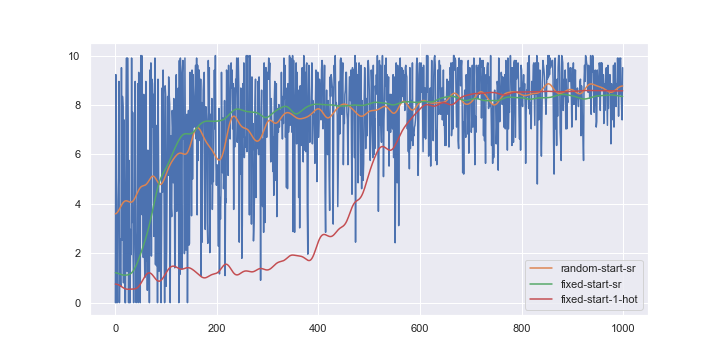
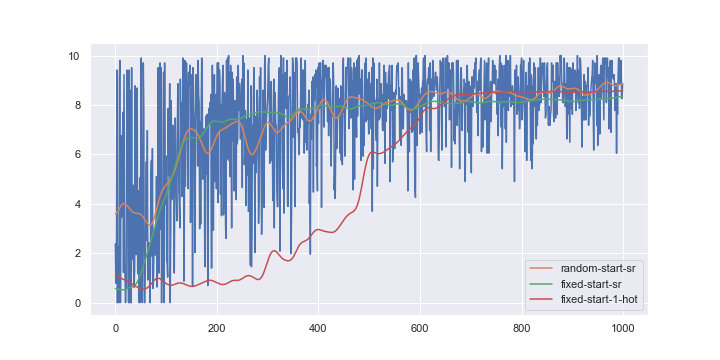
wip.

Changed region(s): [[0.1528, 0.1528, 0.8861, 0.8556]]

diff --git a/hw-5/sr-ac/sr_ac_template.py b/hw-5/sr-ac/sr_ac_template.py
@@ -160,7 +160,7 @@ def reachable_moves(maze, pos):
 
 @numba.jit
 def init_propensities(maze, epsilon = 1e-5):
-    M =  np.ones((maze.size, 4))* (-np.inf)
+    M =  np.ones((maze.size, 4))* (-1e10)
     
     for i in range(maze.shape[0]):
         for j in range(maze.shape[1]):
@@ -169,7 +169,21 @@ def init_propensities(maze, epsilon = 1e-5):
             for _, action in reachable_moves: 
                 M[position_idx(i, j, maze), action] = epsilon
     return M
-
+#%%
+def plot_propensities(M, maze):
+    # Plot the propensities for each state
+    plt.figure(figsize=(10, 5))
+    plt.title('Action Propensities')
+    
+    for move_name in legal_move_names():
+        plt.figure(figsize=(10, 5))
+        plt.title(f'Action Propensities for {move_name}')
+        plot_maze(maze)
+        plt.imshow(M[:, legal_move_names().index(move_name)].reshape(maze.shape), cmap='hot')
+        plt.colorbar()
+        plt.show() 
+        
+#%%
 """
 Learning to act
 
@@ -220,7 +234,11 @@ def actor_critic(state_representation, n_steps,
     #               start_func allows you to specify a different starting 
     #               state, if desired
     # Initialize M-table
-    perf_counters = {"num_episodes": 0, "num_steps": 0, "num_goal_reached": 0}
+    perf_counters = {
+                     "num_episodes": 0, 
+                     "num_steps": 0, 
+                     "num_goal_reached": 0
+    }
     M = init_propensities(maze)
     # Initialize state-value function
     num_states = state_representation.shape[0]
@@ -242,6 +260,8 @@ def actor_critic(state_representation, n_steps,
         
         perf_counters["num_episodes"] += 1
         state_idx = start_func()
+        
+        
         # cumulative discount factor
         I = 1
         # episode trajectory
@@ -251,21 +271,54 @@ def actor_critic(state_representation, n_steps,
         for step_idx in range(n_steps):
             perf_counters["num_steps"] += 1
             # Act and Learn (Update both M and V_weights)
-           
+            
+          
             is_legal_move = False
             move= None
             new_state = None
+            max_checks = 1000 
+            checks = 0
+            action_probabilities = None
+            valid_probabilities = None
+            valid_actions = None
+            chosen_action = None
             
-            while not is_legal_move:
-                # Compute action probabilities
+            while not is_legal_move and checks < max_checks:
+                checks += 1
+                # Compute Action probabilities - How to only consider valid actions
+                valid_actions = [action for action, move in enumerate(LEGAL_MOVES) 
+                                 if check_legal(maze, tuple(np.array(position_from_idx(state_idx, maze)) + np.array(move)))]
+
+                # action_probabilities = softmax(M[state_idx, valid_actions]) 
+                # for i,_ in enumerate(LEGAL_MOVES):
+                #    if i not in set(valid_actions):
+                #        action_probabilities = np.insert(action_probabilities, i, 0) 
+                # print("action_probabilities", action_probabilities, "shape", action_probabilities.shape, "valid_actions", valid_actions)
+                # chosen_action = np.random.choice(valid_actions, p=valid_probabilities)
+                
                 action_probabilities = softmax(M[state_idx, :])
-                valid_actions = np.where(M[state_idx, :] > -np.inf)[0]
+                #valid_actions = np.where(M[state_idx, :] > -np.inf)[0]
                 valid_probabilities = action_probabilities[valid_actions]
-                valid_probabilities /= valid_probabilities.sum()  # Normalize probabilities
-                if(np.isnan(valid_probabilities).any()) and len(valid_probabilities) > 0:
-                   chosen_action = np.random.choice(4)  
+                if valid_probabilities.sum() == 0:
+                        print(f"Warning: Sum of probabilities is zero for state {state_idx} - {position_from_idx(state_idx, maze)}")
+                        valid_probabilities = np.ones_like(valid_probabilities) / len(valid_probabilities)
                 else:
-                    chosen_action = np.random.choice(valid_actions, p=valid_probabilities)
+                        valid_probabilities /= valid_probabilities.sum()
+               
+                if(np.isnan(valid_probabilities).any()) and len(valid_probabilities) > 0:
+                   chosen_action = np.random.choice(4)
+                else:
+                    try:
+                        chosen_action = np.random.choice(valid_actions, p=valid_probabilities)
+                    except ValueError:
+                        print("valid_actions:", valid_actions)
+                        print("valid_probabilities:", valid_probabilities)
+                        print("action_probabilities:", action_probabilities)
+                        print("M[state_idx, :]:", M[state_idx, :])
+                        print("state representation:", state_representation[state_idx])
+                        print("v_weights:", V_weights)
+                        plt.imshow(state_representation, cmap='hot')
+                        raise ValueError("ValueError")
                 # Choose action according to action probabilities
                 #action_probabilities = np.nan_to_num(action_probabilities, nan=-np.inf, copy=False)
                 #chosen_action = np.random.choice(4, p=action_probabilities)
@@ -279,7 +332,19 @@ def actor_critic(state_representation, n_steps,
                     per_episode_counters["rejections"] = per_episode_counters.get("rejections", 0) + 1
                 else:
                     per_episode_counters["actions"] = per_episode_counters.get("actions", 0) + 1
-        
+                    
+            # Should have found legal move
+            if not is_legal_move and checks == max_checks: 
+                print("valid_actions:", valid_actions)
+                print("valid_probabilities:", valid_probabilities)
+                print("action_probabilities:", action_probabilities)
+                print("M[state_idx, :]:", M[state_idx, :])
+                print("state representation:", state_representation[state_idx])
+                print("v_weights:", V_weights)
+                plt.imshow(state_representation, cmap='hot') 
+                print(f"Propensites for state: {position_from_idx(state_idx, maze)} are {M[state_idx, :]}")
+                raise ValueError(f"Could not find a legal move after {max_checks} checks, No legal move for state: {position_from_idx(state_idx, maze)}")
+            
             per_episode_counters["state_visit_counts"][state_idx] += 1 
             trajectory.append(new_state_idx)
             V_state = V_weights @ state_representation[state_idx]
@@ -303,18 +368,6 @@ def actor_critic(state_representation, n_steps,
             # Absorbing state  
             if (i, j) == goal: 
                 episode_rewards[episode_idx] = I * reward # earned rewards for this episode
-                if update_sr: # Update the state representation
-                    #new_state_representation = np.copy(state_representation)
-                    trajectory = np.array(trajectory)
-                    for idx, state_idx in enumerate(trajectory):
-                        #assert check_legal(maze, position_from_idx(state_idx, maze)), \ f"Invalid state in trajectory: {position_from_idx(state_idx, maze)}"
-                        #print("state_idx", state_idx)
-                        current_trajectory = trajectory[idx:]
-                        state_representation[state_idx, :] = \
-                            learn_from_traj(state_representation[state_idx,:], 
-                                            current_trajectory, gamma, alpha)
-                    #state_representation[:] = new_state_representation
-                    
                 break # END EPISODE
             
             state_idx = new_state_idx 
@@ -322,18 +375,10 @@ def actor_critic(state_representation, n_steps,
         # Episode ended due to max steps 
         if step_idx == n_steps - 1 and not goal_reached: 
             episode_rewards[episode_idx] = 0
-            if update_sr: # Update the state representation
-                #new_state_representation = np.copy(state_representation)
-                trajectory = np.array(trajectory)
-                for idx, state_idx in enumerate(trajectory):
-                    #print("state_idx", state_idx)
-                    #assert check_legal(maze, position_from_idx(state_idx, maze)), \ f"Invalid state in trajectory: {position_from_idx(state_idx, maze)}"
-                    current_trajectory = trajectory[idx:]
-                    state_representation[state_idx, :] = \
-                        learn_from_traj(state_representation[state_idx,:], 
-                                        current_trajectory, gamma, alpha)
-                #state_representation[:] = new_state_representation
- 
+        if update_sr and len(trajectory) > 0: # Update the state representation
+            #print(f"Updating SR - Episode {episode_idx}- Trajectory: {[position_from_idx(idx, maze) for idx in trajectory]}") 
+            state_representation[:] = update_sr_after_episode(state_representation, trajectory, gamma, alpha)
+                 
     # Reward only for reaching the goal, thus episode reward is 
     # same as Discounted last step reward.
     perf_counters["episode_counters"] = episode_counters
@@ -341,26 +386,154 @@ def actor_critic(state_representation, n_steps,
     return M, V_weights, episode_rewards
 
 #%%
+def update_sr_after_episode(state_representation, trajectory, 
+                            gamma=0.98, alpha=0.05, debug=False):
+    old_state_representation = np.copy(state_representation)
+    trajectory = np.array(trajectory)
+    for idx, state_idx in enumerate(trajectory):
+        if debug: print(f"state_idx: {state_idx}") 
+        current_trajectory = trajectory[idx:]
+        if debug: print(f"current_trajectory: {current_trajectory}")
+        old_state_representation_state_idx = np.copy(state_representation[state_idx, :])
+        state_representation[state_idx, :] = \
+            learn_from_traj(state_representation[state_idx, :], 
+                            current_trajectory, gamma, alpha, debug=debug)
+        change = np.sum(np.abs(old_state_representation_state_idx - state_representation[state_idx, :]))
+        #if debug: print(f"STATE-CHANGE:{position_from_idx(state_idx, maze)}: {change}")
+       
+    if debug: 
+        # figure with row of three images
+        plt.figure(figsize=(15, 5))
+        ax = plt.subplot(1, 3, 1)
+        ax.set_title("Old State Representation")
+        plt.imshow(old_state_representation, cmap='hot')
+        plt.colorbar()
+        ax = plt.subplot(1, 3, 2)
+        ax.set_title("New State Representation")
+        plt.imshow(state_representation, cmap='hot')
+        plt.colorbar()
+        ax = plt.subplot(1, 3, 3)
+        ax.set_title(f"Change: Trajectory: {trajectory}")
+        plt.imshow(state_representation - old_state_representation, cmap='hot')
+        plt.colorbar()
+        plt.show()
+    if debug:
+        for i in range(state_representation.shape[0]):
+            for j in range(state_representation.shape[1]):
+                if np.abs(state_representation[i, j] - old_state_representation[i, j]) > 0:
+                    if debug: print(f"state: {i, j}, old: {old_state_representation[i, j]}, new: {state_representation[i, j]}")
+                    if debug: print(f"difference: {state_representation[i, j] - old_state_representation[i, j]}")
+                #if debug: print(f"Altered transition from {position_from_idx(i, maze)} to {position_from_idx(j, maze)}")
+                
+    #assert not np.allclose(old_state_representation, state_representation)
+    total_change = np.sum(np.abs(old_state_representation - state_representation))
+    if debug: print(f"total-change: {total_change}")
+    return state_representation
+    
+#%%
 # One part to the solution of exercise part 3, if you want to update the 
 # SR after each episode
-def learn_from_traj(succ_repr, trajectory, gamma=0.98, alpha=0.05):
+def learn_from_traj(succ_repr, trajectory, gamma=0.98, alpha=0.05, debug=False):
     # Write a function to update a given successor representation 
     # (for the state at which the trajectory starts) using an 
     # example trajectory using:
     #       discount factor gamma 
     #       learning rate alpha
     observed = np.zeros_like(succ_repr)
+    #if debug: print(f"learn_from_traj: {trajectory}") 
     for i, state in enumerate(trajectory):
+        #if debug: print(f"learn_from_traj: state: {state}")
         observed[state] += gamma ** i
+    assert (observed >= 0).all(), "observed should be positive"
+    #assert (succ_repr >= 0).all(), "succ_repr should be positive"
     delta =  observed - succ_repr
-    #print(f"successor: {succ_repr}, observed: {observed}, delta:{delta}")
-    if np.sum(np.abs(delta)) >0 : 
-        print("non-zero-delta: ", np.sum(np.abs(delta)))
+    #if debug: print(f"delta: {delta}")
+    #if debug: print(f"successor: {succ_repr}, observed: {observed}, total-delta:{np.sum(np.square(delta))}")
+    # if np.sum(np.abs(delta)) >0 : print("non-zero-delta: ", np.sum(np.abs(delta)))
     succ_repr += alpha * delta 
+    # assert (succ_repr >= 0).all(), "succ_repr should remain positive"
     # Return the updated successor representation
     return succ_repr
 
+#%%
+import numpy as np
 
+def test_learn_from_traj_basic():
+    # Basic test with a simple trajectory
+    succ_repr = np.zeros(6)
+    trajectory = [0, 1, 2, 3]
+    gamma = 0.9
+    alpha = 0.1
+    updated_repr = learn_from_traj(np.copy(succ_repr), trajectory, gamma, alpha)
+    print("updated_repr", updated_repr) 
+    # Compute expected values manually
+    expected = np.zeros(6)
+    for i, state in enumerate(trajectory):
+        expected[state] += gamma ** i
+    expected = succ_repr + alpha * (expected - succ_repr)
+    print("expected", expected)    
+    assert np.allclose(updated_repr, expected), "Basic test failed"
+
+test_learn_from_traj_basic()
+#%%
+
+def test_update_sr_after_episode():
+    # Define a simple SR matrix with a 3x3 maze (9 states)
+    state_representation = np.zeros((9, 9))  # Initial SR as zeros
+    trajectory = [0, 1, 2]  # Simple trajectory from state 0 -> 1 -> 2
+    gamma = 0.9  # Discount factor
+    alpha = 0.1  # Learning rate
+    
+    # Expected changes
+    # For state 0, it should observe [1, gamma, gamma^2] along the trajectory
+    expected_sr_0 = alpha*np.array([1, gamma, gamma**2, 0, 0, 0, 0, 0, 0])
+    expected_sr_1 = alpha*np.array([0, 1, gamma, 0, 0, 0, 0, 0, 0]) 
+    expected_sr_2 = alpha*np.array([0, 0, 1, 0, 0, 0, 0, 0, 0]) 
+    
+    # Call the function
+    updated_sr = update_sr_after_episode(state_representation, trajectory, gamma, alpha, debug=True)
+    
+    # Check if the updated SR matches the expected SR for state 0
+    actual_sr_0 = updated_sr[0, :]
+    print("Expected SR for state 0:", expected_sr_0)
+    print("Actual SR for state 0:  ", actual_sr_0)
+    actual_sr_1  = updated_sr[1, :]
+    actual_sr_2  = updated_sr[2, :]
+    print("Expected SR for state 1:", expected_sr_1)
+    print("Actual SR for state 1:  ", actual_sr_1)
+    assert np.allclose(actual_sr_1, expected_sr_1),  "Test failed: SR update for state 1 does not match expected values"
+    assert np.allclose(actual_sr_0, expected_sr_0), \
+        "Test failed: SR update for state 0 does not match expected values"
+    assert np.allclose(actual_sr_2, expected_sr_2), \
+        "Test failed: SR update for state 0 does not match expected values"
+     
+    print("Test passed!")
+
+test_update_sr_after_episode()
+#%%
+def test_update_sr_after_episode():
+    state_representation =  random_walk_sr(transitions, 0.8).T 
+    old_state_representation = np.copy(state_representation)
+    trajectory = [
+                  position_idx(7, 7, maze), 
+                  position_idx(6, 7, maze), 
+                  position_idx(5, 7, maze), 
+                  position_idx(4, 7, maze), 
+                  position_idx(3, 7, maze),
+                  #position_idx(2, 7, maze),
+                   #position_idx(1, 7, maze)
+                  ]
+    gamma = 0.98
+    alpha = 0.05
+    
+    updated_sr = update_sr_after_episode(state_representation, trajectory, gamma, alpha, debug=False)
+    assert not np.allclose(updated_sr, old_state_representation)
+    diff_for_5_7 = np.sum(np.abs(old_state_representation[position_idx(5, 7, maze),:] - updated_sr[position_idx(5, 7, maze), :]))
+    # print("diff_for_5_7", diff_for_5_7)
+    assert diff_for_5_7 >=  gamma * alpha
+    return updated_sr 
+
+test_update_sr_after_episode()
 # Part 1
 #%%
 original_goal=(1,1)
@@ -442,7 +615,7 @@ n_steps = 300 # 300 steps per episode
 n_episodes = 1000 # 1000 episodes
 alpha = 0.05
 gamma = 0.99
-
+np.random.seed(42)
 M, V, earned_rewards = actor_critic(learning_sr, 
                                         n_steps, 
                                         alpha, 
